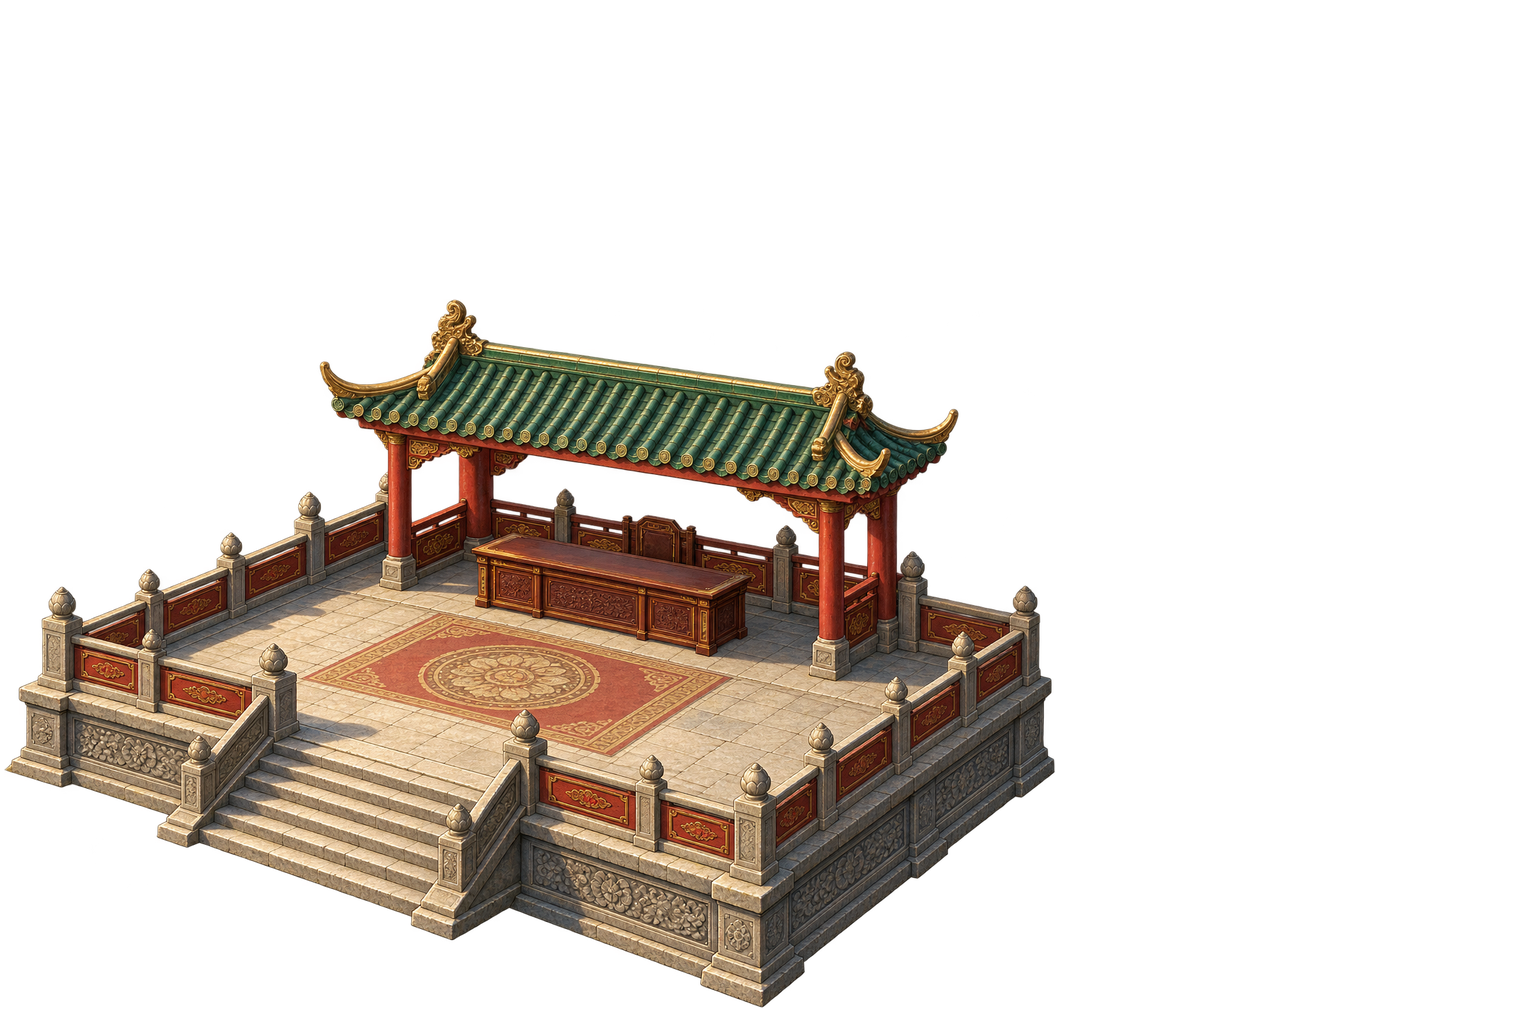
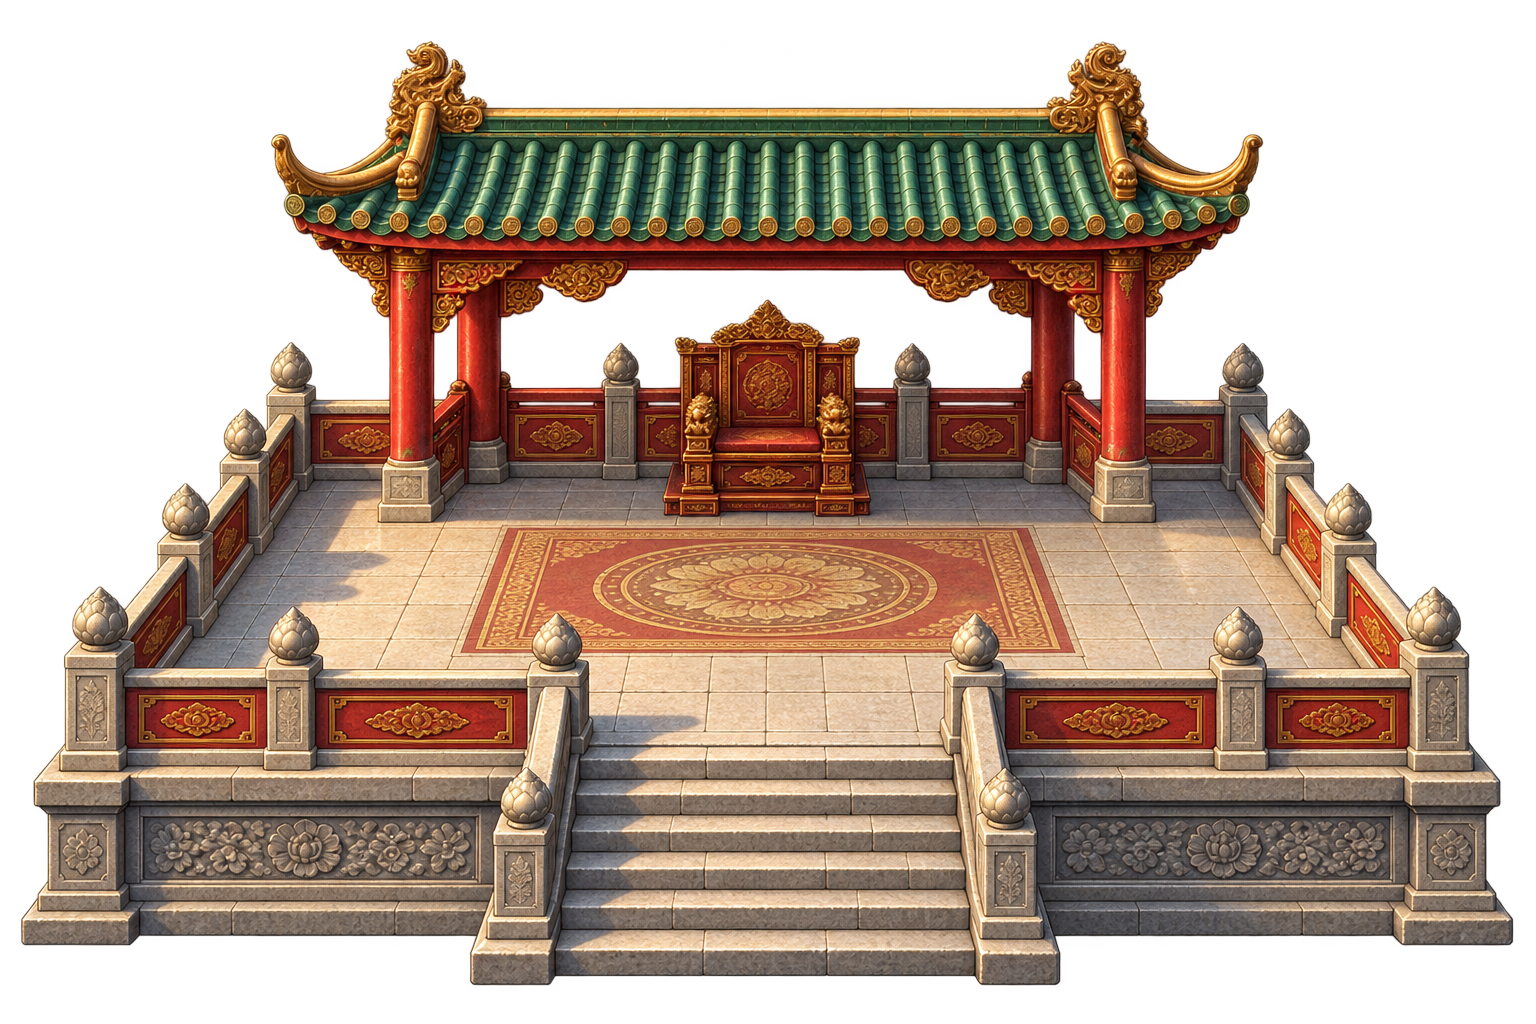
ART-DAIS2: finalize reviewed assets for approved merge

diff --git a/index.html b/index.html
@@ -2350,7 +2350,7 @@ dialog.frontier[open]{width:min(1120px,calc(100% - 24px));max-width:1120px;paddi
     "./src/town-terrain.js?v=k1d": "./src/town-terrain.js?v=20261029-load01b",
     "./src/town-scenery.js?v=k1d": "./src/town-scenery.js?v=20261021-m2-flames-ground-r2-z2-code-c3",
     "./src/theme-assets.js": "./src/theme-assets.js?v=20261016-m2-boss-justice-workers-v1",
-    "./src/town-layout.js?v=k1d": "./src/town-layout.js?v=20261030-z4-town-a",
+    "./src/town-layout.js?v=k1d": "./src/town-layout.js?v=20261030-z4-town-a-art-dais2",
     "./src/yama-fit.js": "./src/yama-fit.js?v=20261025-a7",
     "./src/yama-animation.js?v=20261015-live-v1": "./src/yama-animation.js?v=20261015-live-v1-a7",
     "./src/town-startup.js": "./src/town-startup.js?v=20261027-m2-startup-ready-food-art",
@@ -2366,7 +2366,7 @@ dialog.frontier[open]{width:min(1120px,calc(100% - 24px));max-width:1120px;paddi
     "./src/yama-sword.js": "./src/yama-sword.js?v=yama-live-20261015-o2",
     "./src/yama-sword.js?v=20261009-f2-merge-f3-f4-sala-books": "./src/yama-sword.js?v=yama-live-20261015-o2",
     "./src/yama-sword.js?v=20261009-f2-merge-f3-f4-sala-books-mirror-art-book-art-oriverse-25d-g1-g3b": "./src/yama-sword.js?v=yama-live-20261015-o2",
-    "./src/town-layout.js": "./src/town-layout.js?v=20261030-z4-town-a",
+    "./src/town-layout.js": "./src/town-layout.js?v=20261030-z4-town-a-art-dais2",
     "./src/battle-facing.js": "./src/battle-facing.js?v=20261029-art-atk2",
     "./src/battle-facing.js?v=i1b-westhit-skillatk-j1": "./src/battle-facing.js?v=20261029-art-atk2",
     "./src/combat-sprites.js": "./src/combat-sprites.js?v=20261020-border-party-grace-f",

diff --git a/src/town-layout.js b/src/town-layout.js
@@ -239,7 +239,10 @@ const WEST_PROPS = [
 ];
 export const TOWN_ZONE_LAYOUT = {
   th:        {},
-  asia:      { walkRuns:ASIA_WALK_RUNS, patches:ASIA_WALK_RUNS?false:true, props:ASIA_PROPS, pathCell:8 },
+  // ART-DAIS2: front-facing repaint; throne seat ~[768,458], clear right-hand floor ~[1030..1270,520..650].
+  // Keep the platform/queue fixed and fit only the ruler point and Nira's floor/home to the new painting.
+  asia:      { walkRuns:ASIA_WALK_RUNS, patches:ASIA_WALK_RUNS?false:true, props:ASIA_PROPS, pathCell:8,
+    spots:{throne:{x:1862,y:944}},crew:{nira:[1938,968]},crewStage:{nira:[1914,956,1956,982]} },
   west:      { walkRuns:WEST_WALK_RUNS, patches:WEST_WALK_RUNS?false:true, props:WEST_PROPS, pathCell:8, strictFloor:true, stations:{ngiw:{x:532,y:1508}}, crew:{boon:[2460,468]} },
   cyberhell: { ...CYBERHELL_LAYOUT, walkRuns:CYBERHELL_WALK_RUNS },
 };
